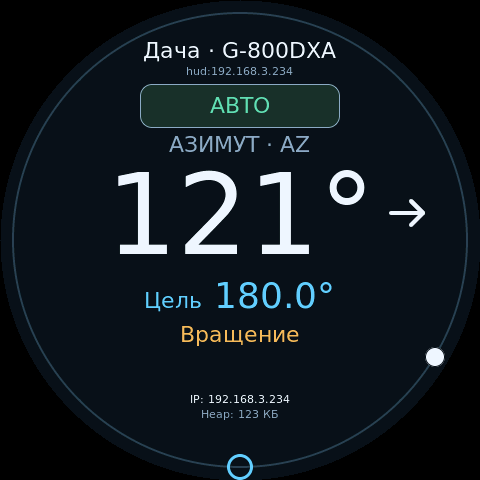
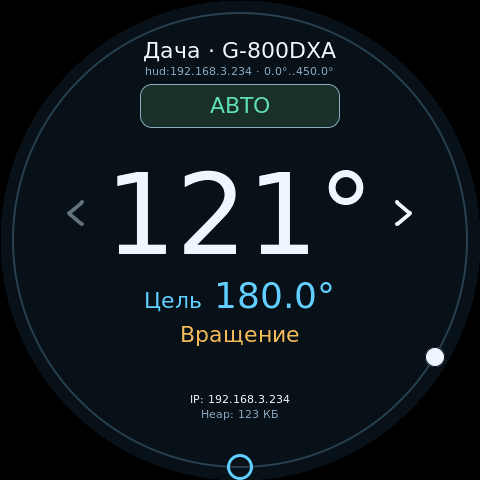
docs: add interface screenshots and clarify supported clients

diff --git a/README.md b/README.md
@@ -6,15 +6,29 @@
 
 - Азимут P36/P45 или [произвольный диапазон](docs/az-range.md) с ходом 1…3600° и смещением начала в обе стороны; элевация 0…180° или собственный произвольный диапазон с независимыми калибровками у двухосевой поворотки.
 - Управление штатным блоком Yaesu либо независимыми двигателями через PWM, в том числе два модуля IBT-2/BTS7960.
-- Простой регулятор с S-рампой и пусковым импульсом либо каскадный ПИД положения и скорости с активным удержанием. Настройки AZ/EL независимы; для G-800DXA нужен внешний модуль 0–5 В.
+- Простой регулятор с S-рампой и пусковым импульсом либо каскадный ПИД положения и скорости с активным удержанием. [Автотюн](docs/usage.md#автотюн-простого-режима-и-каскада) подбирает параметры выбранного регулятора по пробным движениям и проверочному наведению; результат применяется вручную. Настройки AZ/EL независимы; для G-800DXA нужен внешний модуль 0–5 В.
 - Ручной режим с подтверждением внешних целей, автоматический режим и «Авто 1 ч».
 - Четыре редактируемые предустановки для каждого профиля поворотки.
 - [OTA из браузера и Arduino IDE](docs/ota.md) с автоматической проверкой flash и разделов.
-- Веб-интерфейс, калибровка, диагностика и необязательный дисплей ILI9341/XPT2046 или параллельный LCD1602.
-- GS-232 через UART0 и Bluetooth; rotctld и GS-232 через TCP 4533; прямой UDP для N1MM Logger+, UR5EQF и 5MContest.
-- [HUD](docs/hud.md): удалённые пульты и несколько повороток по Wi-Fi или UART. [CrowPanel 2.1](docs/crowpanel-21.md) работает как HUD или с имитацией; [переделанная плата](docs/crowpanel-az.md) поддерживает локальный привод AZ — Yaesu G-800DXA либо BTS7960.
+- Веб-интерфейс, калибровка, диагностика и экран: ILI9341/XPT2046, параллельный LCD1602 или круглый сенсорный дисплей [CrowPanel 2.1](docs/crowpanel-21.md).
+- GS-232 через UART0 и Bluetooth; rotctld и GS-232 через TCP 4533, в том числе для [SkyRoof и Gpredict](docs/usage.md#skyroof-и-gpredict).
+- Прямой UDP для N1MM Logger+, UR5EQF и 5MContest; PstRotator UDP с передачей числового азимута для TR4W, DXLog.net и Log4OM 2 — [настройка и ограничения](docs/usage.md#pstrotator-udp--ur5eqf-и-5mcontest).
+- [HUD](docs/hud.md): удалённые пульты и несколько повороток по Wi-Fi или UART.
+- Режим имитации движения для проверки интерфейса и протоколов без подключения двигателей.
 
 В ручном режиме числовая цель от логгера по умолчанию ожидает подтверждения. В настройках можно независимо включить автоследование для N1MM UDP, PstRotator UDP, GS-232 и rotctld. Команды направления и STOP выполняются сразу, кроме ограничений активной предустановки, описанных в [инструкции управления](docs/usage.md#предустановки-и-профили). Для наведения реальной поворотки нужна калибровка соответствующей оси; в имитации она не требуется.
+
+## Интерфейс
+
+Веб-интерфейс: положение AZ/EL, наведение, ручное вращение и предустановки.
+
+![Управление повороткой в веб-интерфейсе](docs/images/web-control.png)
+
+CrowPanel 2.1: двухосевая поворотка и удалённый пульт HUD.
+
+| AZ / EL в режиме имитации | HUD с выбранной повороткой |
+|---|---|
+| ![CrowPanel: положение и цель AZ/EL](docs/images/crowpanel-21-dual.png) | ![CrowPanel: управление через HUD](docs/images/crowpanel-21-hud.png) |
 
 ## Начало работы
 

diff --git a/docs/hud.md b/docs/hud.md
@@ -44,6 +44,8 @@ HUD — роль обычной прошивки, выбираемая в веб
 
 При выборе другого устройства ещё не отправленные команды и незавершённый ввод отменяются; поля ввода угла в вебе очищаются. Уже отправленная команда остаётся адресованной исходному ID. TCP-сеанс логгера сохраняется: переподключение не требуется. Неполная строка отбрасывается до её завершающего CR/LF, а байты, накопленные до смены выбора, отменяются; последующие команды направляются выбранной поворотке. Подтверждения уже принятых команд возвращаются в исходный TCP-сеанс, даже если выбор успел измениться. UART/native USB и Bluetooth очищают незавершённый ввод, UDP — накопленные пакеты и контекст протокола. Полностью переданная последовательность исполняется контроллером самостоятельно.
 
+![CrowPanel в роли HUD: выбранная поворотка, текущее положение и цель](images/crowpanel-21-hud.png)
+
 ## Обрыв связи и нагрузка
 
 Числовая цель, пресет или последовательность, уже принятые контроллером, продолжаются без HUD. Непрерывное вращение от HUD требует продления каждые 250 мс; через 1 с без продления останавливается только соответствующее движение этого источника. Новая команда другого HUD или прямого входа не останавливается старым таймером. При смене выбора HUD освобождает своё непрерывное вращение на прежней поворотке. Восстановление связи само по себе не запускает движение.

diff --git a/docs/configuration.md b/docs/configuration.md
@@ -32,6 +32,8 @@
 
 Модель, диапазоны, калибровки и предустановки остаются в своих разделах настроек. В «Регуляторы движения» выберите простой вариант или каскадный ПИД; отдельное разрешение оси не требуется. Скорость, время разгона и торможения, начало замедления, ручной выбег и коэффициент торможения задаются в «Регуляторы движения» отдельно для AZ и EL при выборе простого варианта. Начальный угол выбега физического привода — 5°; сохранённый угол имеет приоритет. См. [настройку остановки](usage.md#наведение-при-шумной-обратной-связи).
 
+![Страница оборудования: привод, связь и кнопка подтверждения](images/web-hardware.png)
+
 ## Применение и восстановление доступа
 
 1. При первом запуске без сохранённой конфигурации контроллер работает с аппаратными параметрами выбранной сборки. Простой регулятор, рабочий выход 50% и порог обнаружения движения 5° доступны без отдельного подтверждения. Для наведения нужна калибровка; само включение питания движение не запускает. Чтобы изменить оборудование, откройте `/hardware`.

diff --git a/docs/crowpanel-21.md b/docs/crowpanel-21.md
@@ -16,7 +16,7 @@
 
 В роли HUD сверху показаны имя выбранной поворотки и адрес её контроллера. Внизу находятся состояние Bluetooth, IP и свободная внутренняя память в КиБ. При слабом Wi-Fi (−80 dBm и ниже) появляется жёлтый значок, без соединения — красный перечёркнутый. Метка AP означает включённую точку доступа. Строка Bluetooth скрыта, если он выключен в настройках. Строка «Имитация» обозначает моделируемое движение.
 
-![Экран с имитацией движения](images/crowpanel-21.png)
+![Двухосевая поворотка в имитации: текущие положения и цели AZ/EL](images/crowpanel-21-dual.png)
 
 ![Экран HUD с выбранной повороткой](images/crowpanel-21-hud.png)
 
